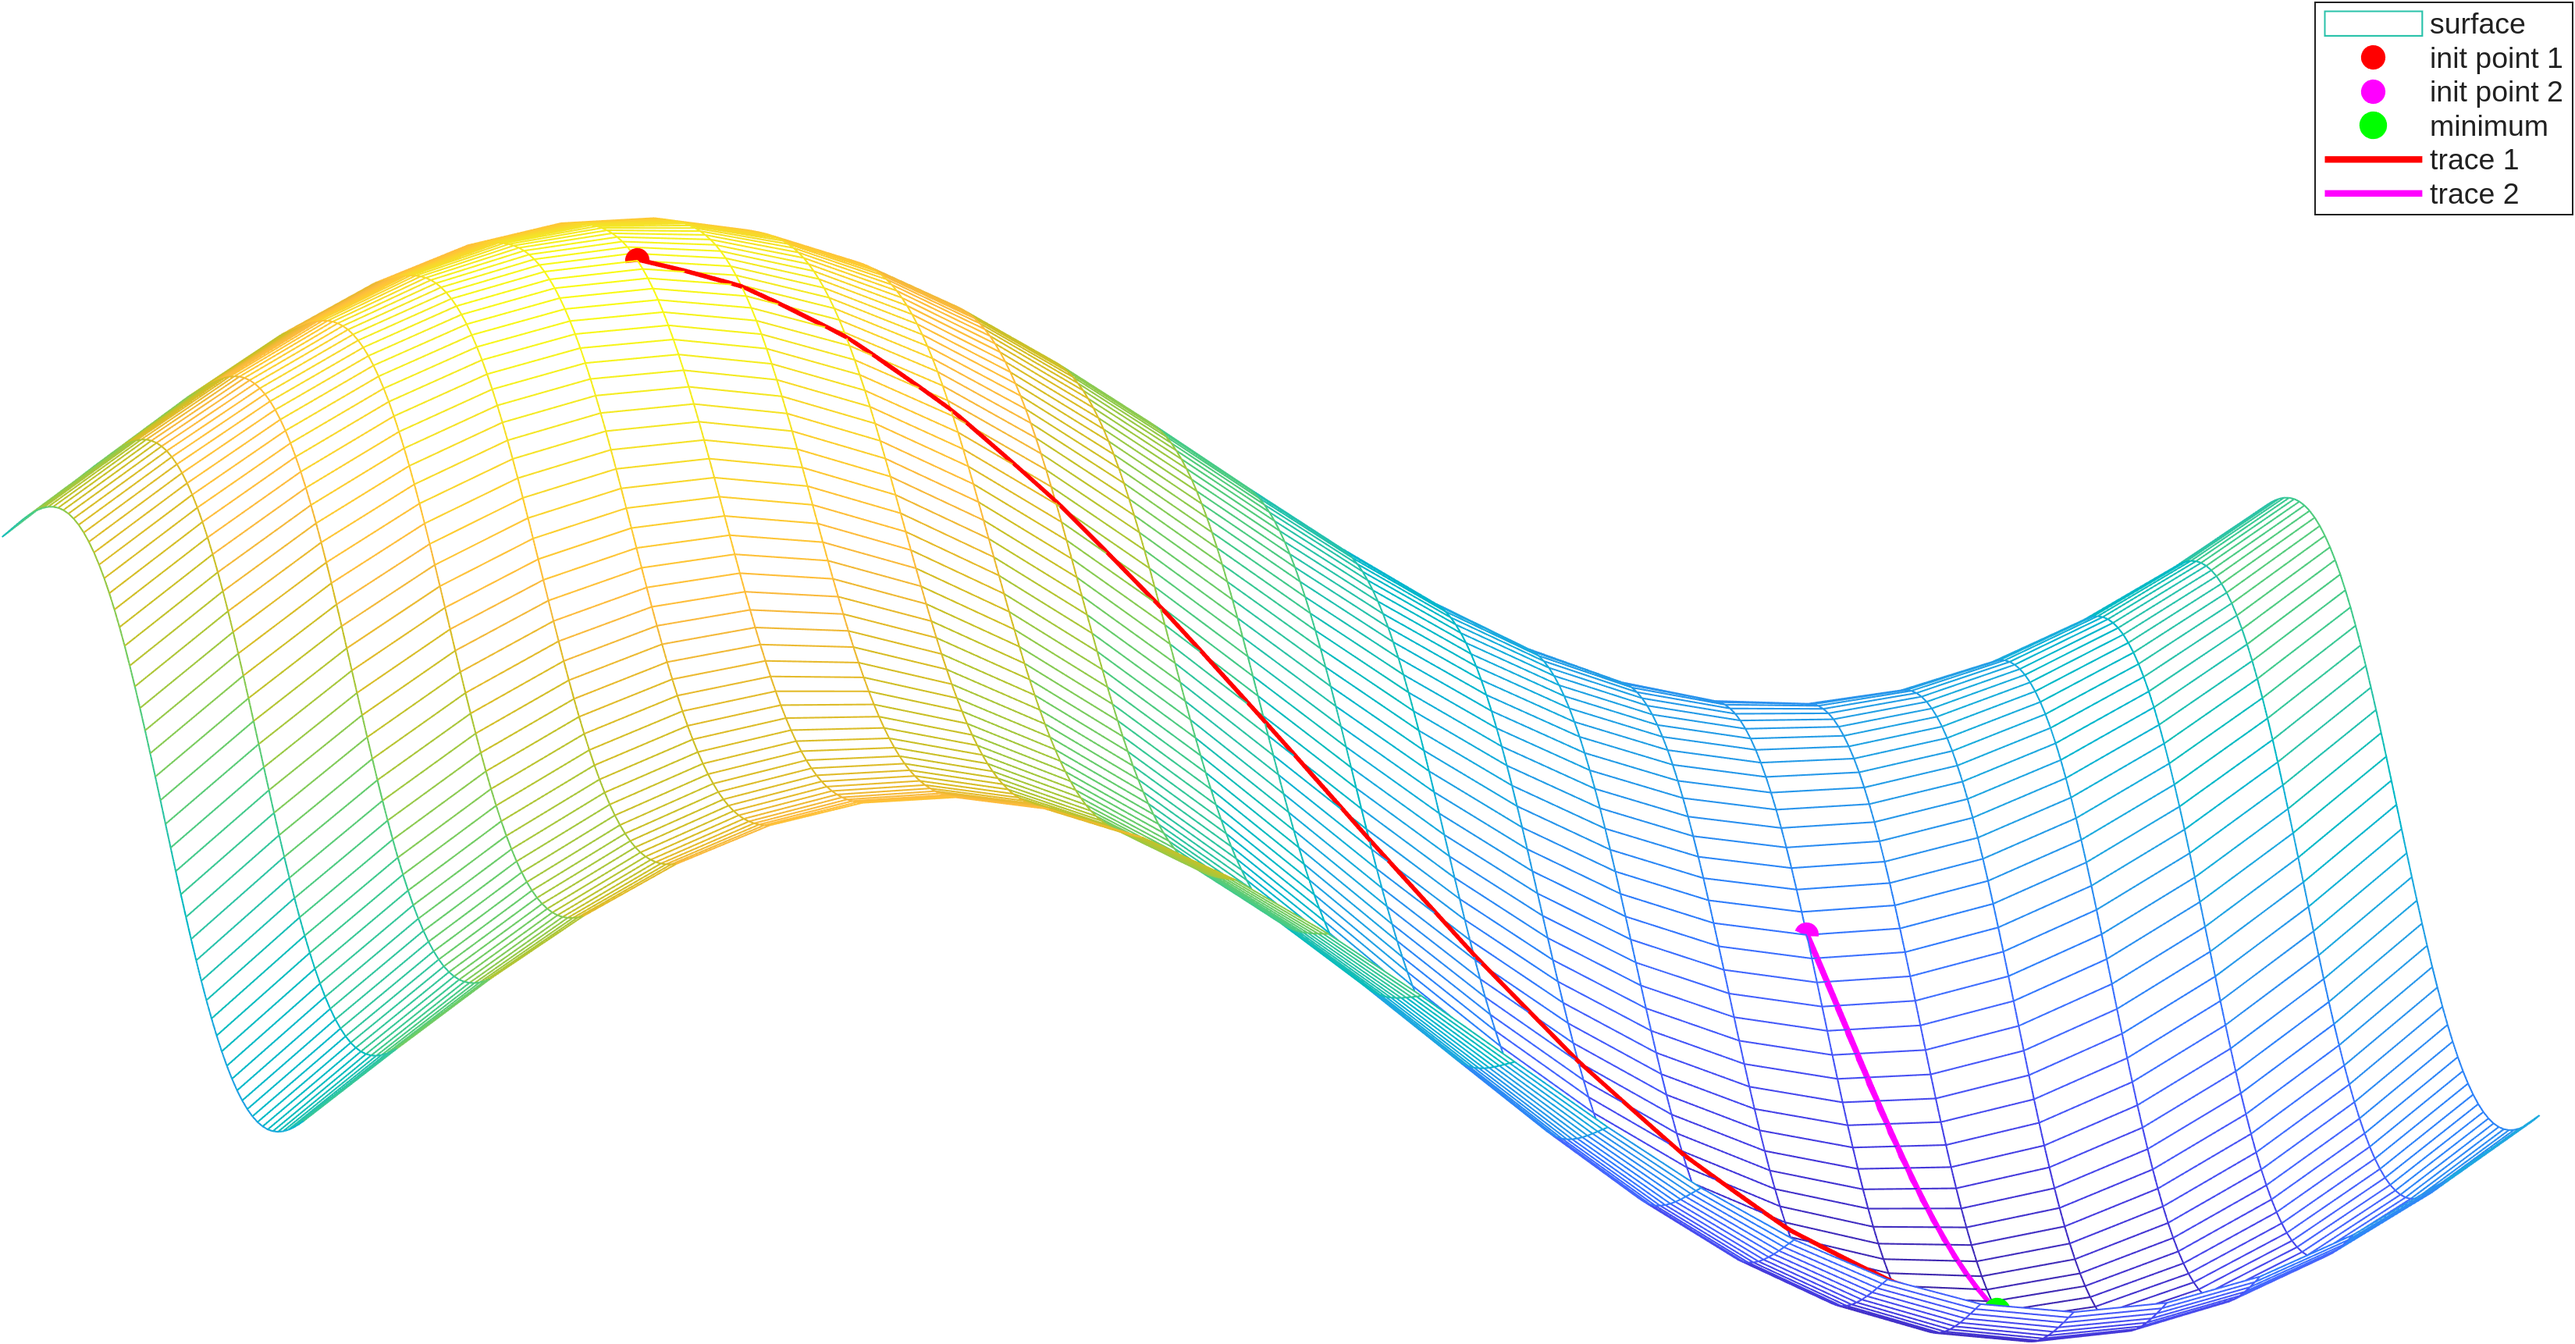
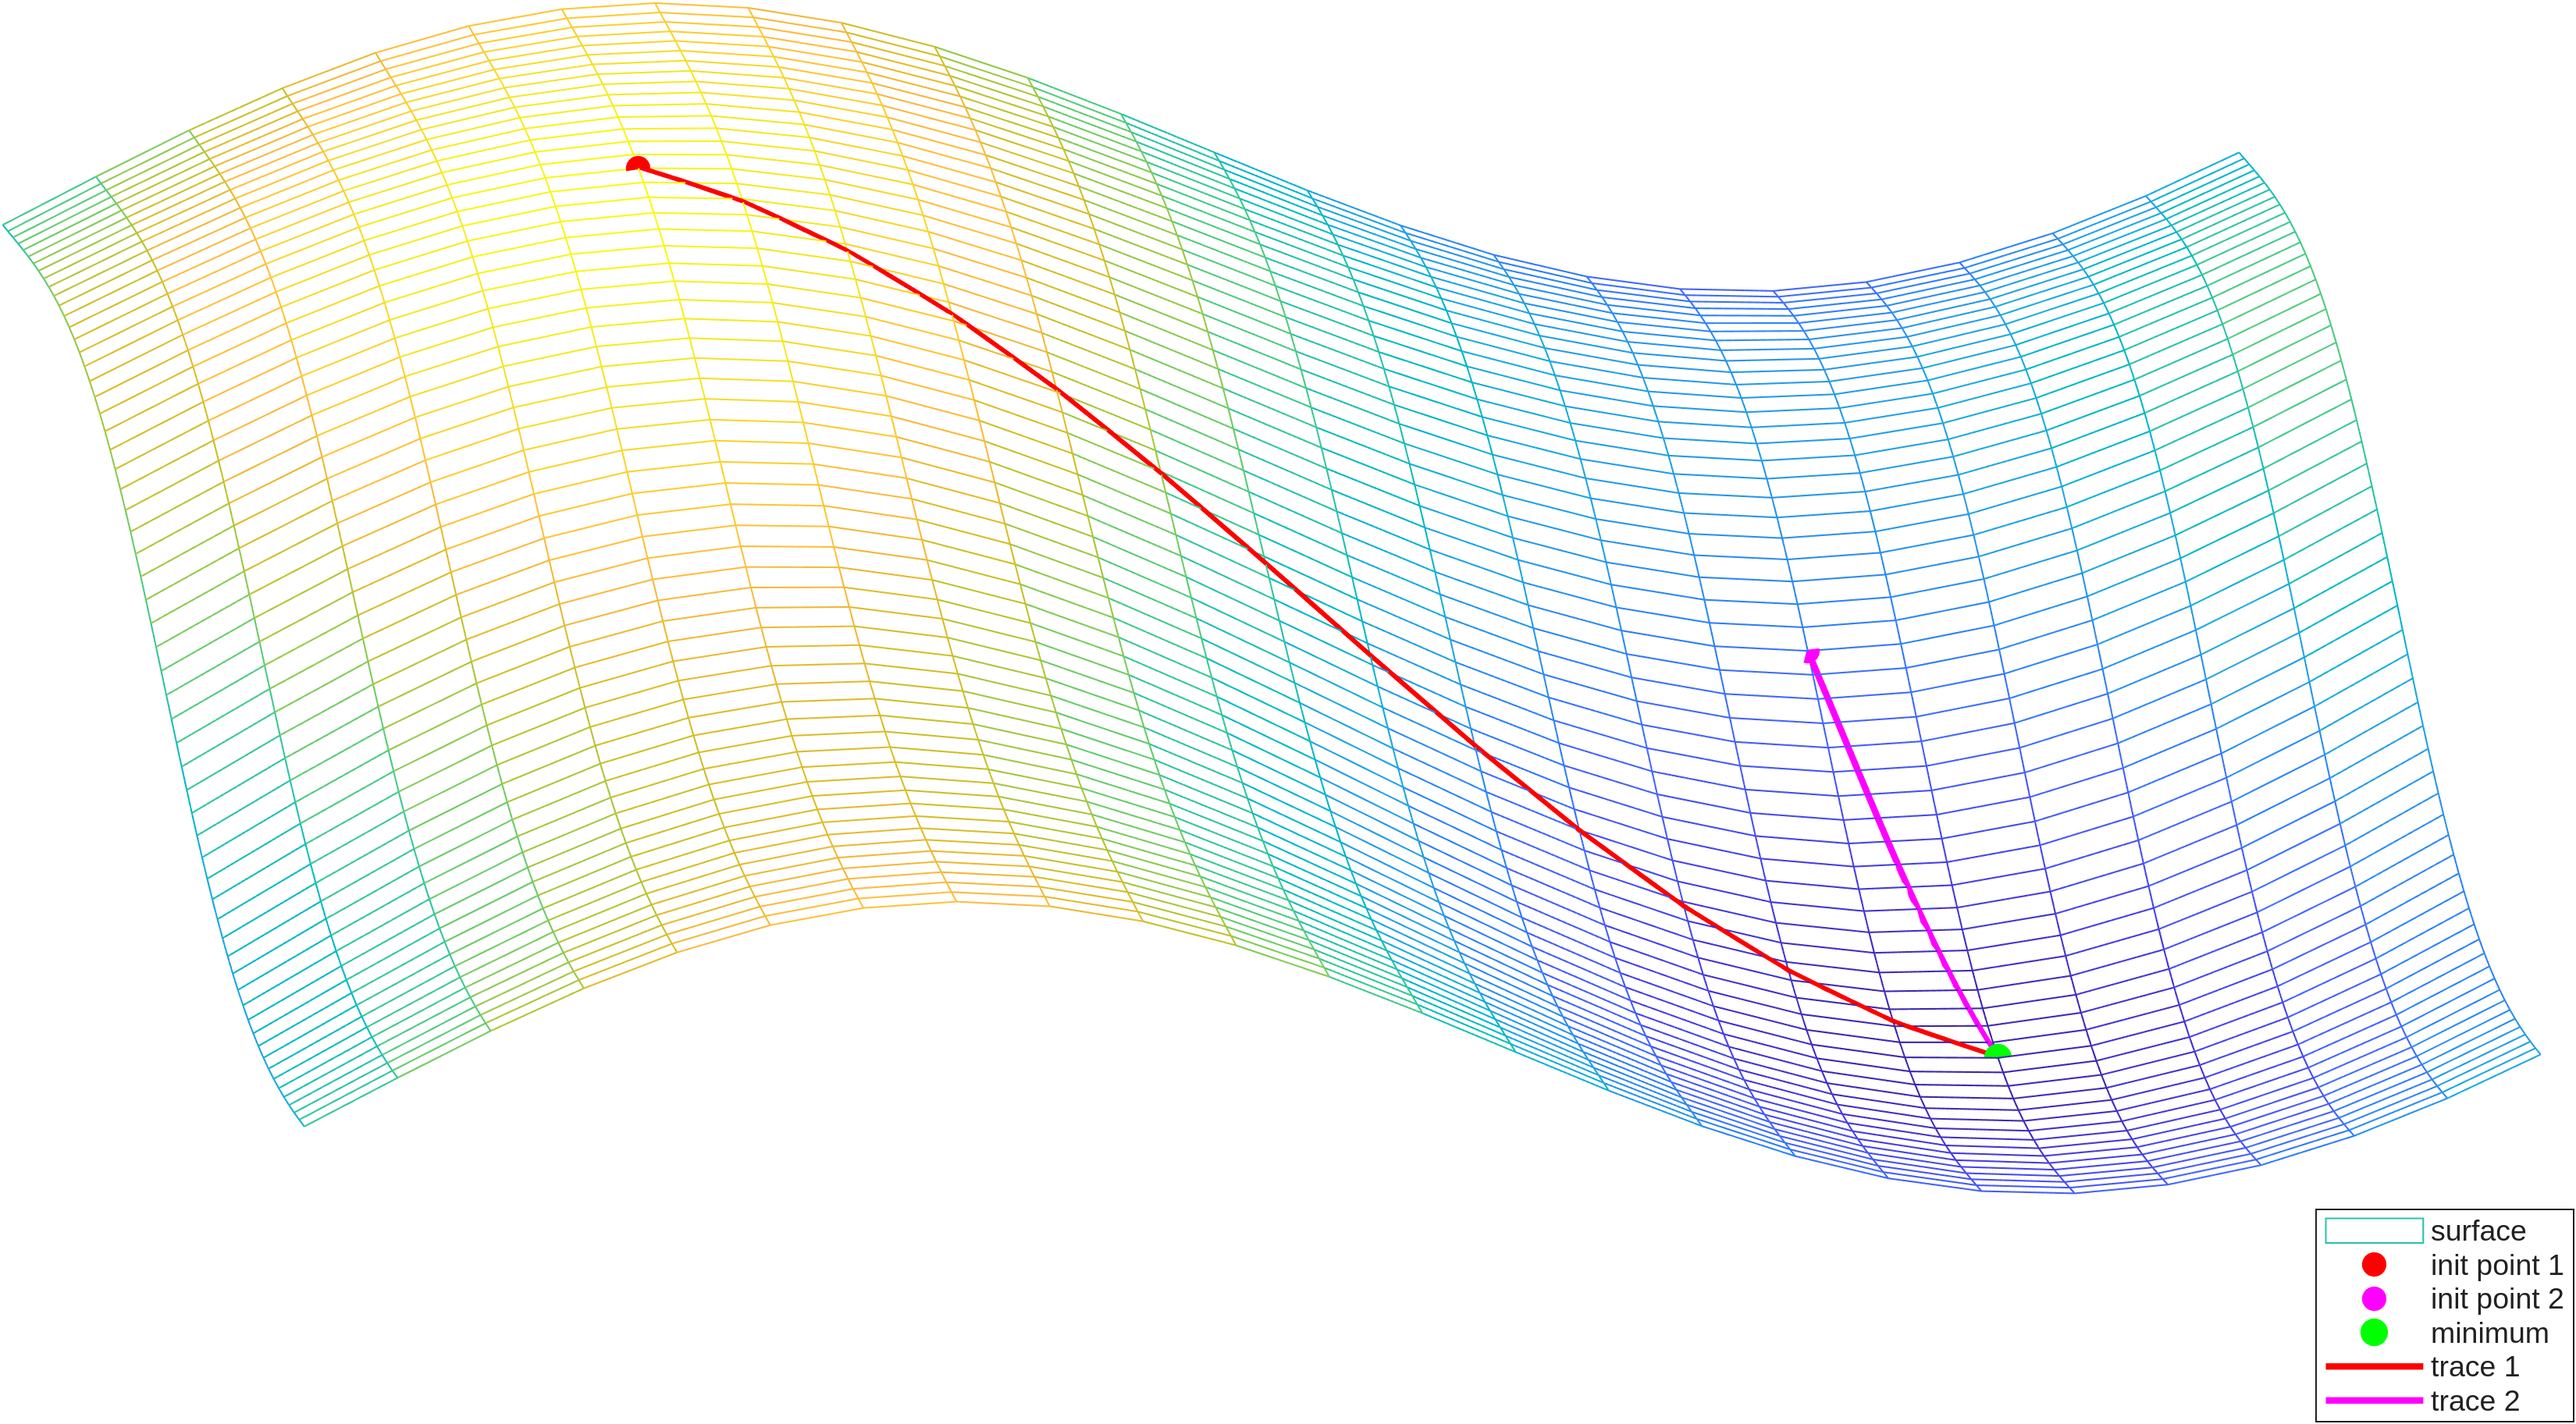
angle done

Changed region(s): [[0.0, 0.0, 1.0, 1.0]]

diff --git a/PEL3D.m b/PEL3D.m
@@ -5,6 +5,7 @@ clear;
 random_mode = "load"; % "generate" or "load"
 view_mode = "default"; % "default" or "z_axis"
 z_rotation_deg = -150; % rotate camera around z axis (azimuth)
+topdown_tilt_deg = 25; % increase elevation for a more top-down view
 random_param_file = "PEL3D_random_params.mat";
 pad_left = 50;
 pad_right = 25;
@@ -76,7 +77,7 @@ else
     error("Unknown view_mode: %s. Use 'default' or 'z_axis'.", view_mode);
 end
 [az, el] = view;
-view(az + z_rotation_deg, el);
+view(az + z_rotation_deg, min(el + topdown_tilt_deg, 89));
 set(gcf, 'Color', 'none');
 axis off
 hold on;
